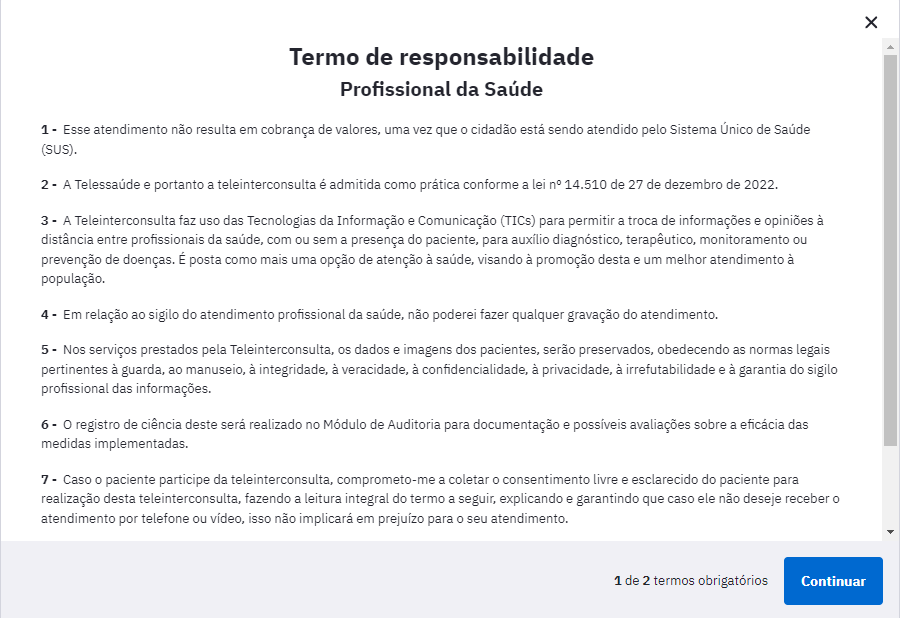
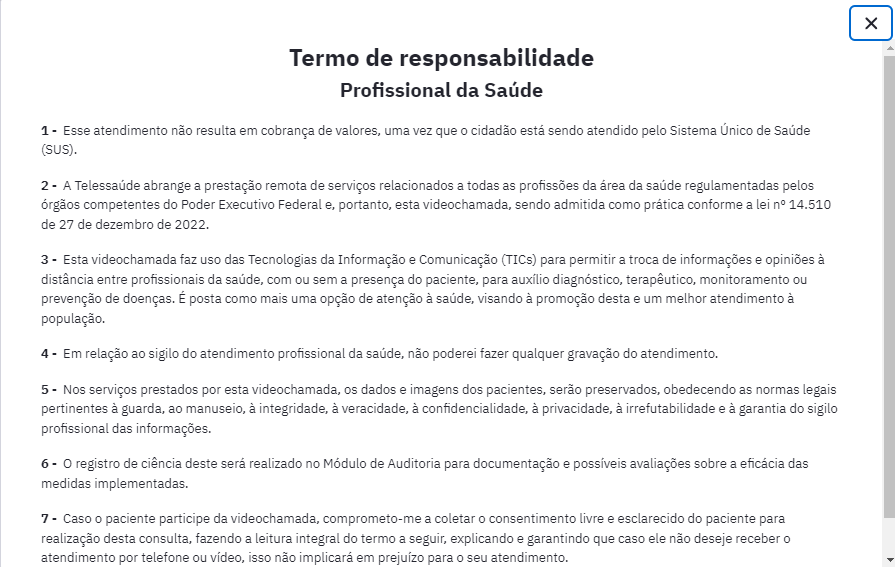
retirada dos termos Teleinterconsulta

Changed region(s): [[0.0302, 0.06, 0.9352, 0.8695], [0.0603, 0.0, 1.0, 1.0]]

diff --git a/docs/PEC/PEC_13_videochamadas copy.md b/docs/PEC/PEC_13_videochamadas copy.md
@@ -12,7 +12,10 @@ last_modified_date: "02/05/2023"
 # CAPÍTULO 13 - Videochamadas
 {: .no_toc }
 
-Este módulo permite que os profissionais do PEC realizem teleinterconsultas com profissionais internos ou externos à UBS, por meio de videochamada. Neste caso, o cidadão poderá ou não estar presente na chamada e a mesma será conduzida através de um canal oficial de comunicação garantindo a segurança desta ação.
+Este módulo permite que os profissionais do PEC realizem videochamadas com profissionais internos ou externos à UBS ou outro estabelecimento de saúde que tenha o PEC instalado. Neste caso, o cidadão poderá ou não estar presente na chamada e a mesma será conduzida através de um canal oficial de comunicação garantindo a segurança desta ação.
+
+{: .nota }
+Uma das possíveis modalidades de uso desse módulo é a realização de Teleinterconsultas. 
 
 #  13.1 Módulo Videochamada e-SUS APS
 
@@ -20,14 +23,14 @@ Após realizar habilitação para videochamadas no pec e-SUS APS, será criada u
 
 ![](media/video2.png)
 
-Para iniciar a telechamada, primeiro o profissional que estiver realizando o atendimento deve sinalizar se o cidadão participará presencialmente da teleinterconsulta.
+Para iniciar a telechamada, inicialmente o profissional que estiver realizando o atendimento deve sinalizar se o cidadão participará presencialmente da videochamada. 
 
 ![](media/video3.png)
 Fonte: SAPS/MS.
 
-Após a confirmação se o cidadão estará participando da Teleinterconsulta, o profissional deverá habilitar microfone e câmera e clicar em (Criar chamada).
+Confirmada ou não a participação presencial do cidadão, o profissional deverá habilitar microfone e câmera e clicar em (Criar chamada).
 
-# 13.2 Termo de Responsabiliade Profissional de Saúde
+# 13.2 Termo de Responsabiliade - Profissional de Saúde
 
 Após clicar em "Criar chamada", será gerado um Termo de Responsabilidade para o profissional estar ciente das informações descritas no termo.
 
@@ -38,15 +41,15 @@ O Termo de Responsabilidade do Profissional da Saúde, é o documento que inform
 Ao relaizar a leitura do termo, clicar em "Continuar" para gerar o Termo de Consentimento Livre e Esclarecido do Cidadão.
 
 
-# 13.3 Termo de Consentimento Livre e Esclarecido Cidadão
+# 13.3 Termo de Consentimento Livre e Esclarecido - Cidadão
 
-O Termo de Consentimento Livre e Esclarecido do Cidadão estará disponível para o cidadão presente na consulta que participará da Teleinterconsulta na companhia do profissional.
+O Termo de Consentimento Livre e Esclarecido do Cidadão estará disponível para o cidadão que participará de forma presencial da videochamada na companhia do profissional.
 
 ![](media/video5.png)
 
 É dever do profissional que está presente com o cidadão, realizar a leitura do Termo de Consentimento para o mesmo e pergunta-lo se há consentimento. 
 
-Após leitura e concordancia do cidadão, clicar em " Cidadão está ciente e concorda com a realização da teleinterconsulta" e a chamada será iniciada. 
+Após leitura e concordancia do cidadão, clicar em " Cidadão está ciente e concorda com a realização da videochamada" e a chamada será iniciada. 
 
 {: .nota }
 Atualmente este módulo não gera produção para agregar nos relatórios de atendimentos das equipes. Portanto faz-se necessário o registro do atendimento individual por meio da Ficha de Atendimento Individual (FAI).
@@ -61,7 +64,7 @@ Figura 13.4.1- Compartilhando a chamada
 
 ![](media/video14.png)
 
-O profissional que receber o link consegue então acessar a teleinterconsulta após preencher seus dados.
+O profissional que receber o link consegue então acessar a videochamada após preencher seus dados.
 
 # 13.5 Recursos da ferramenta 
 
